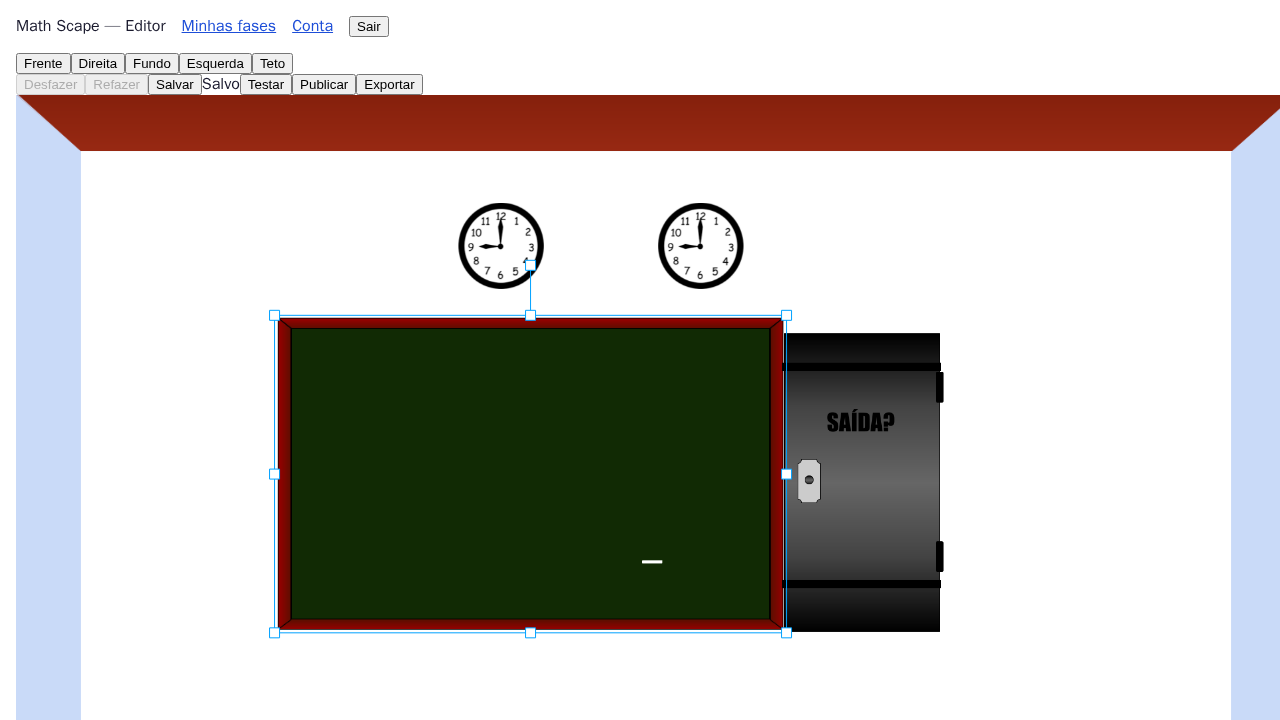
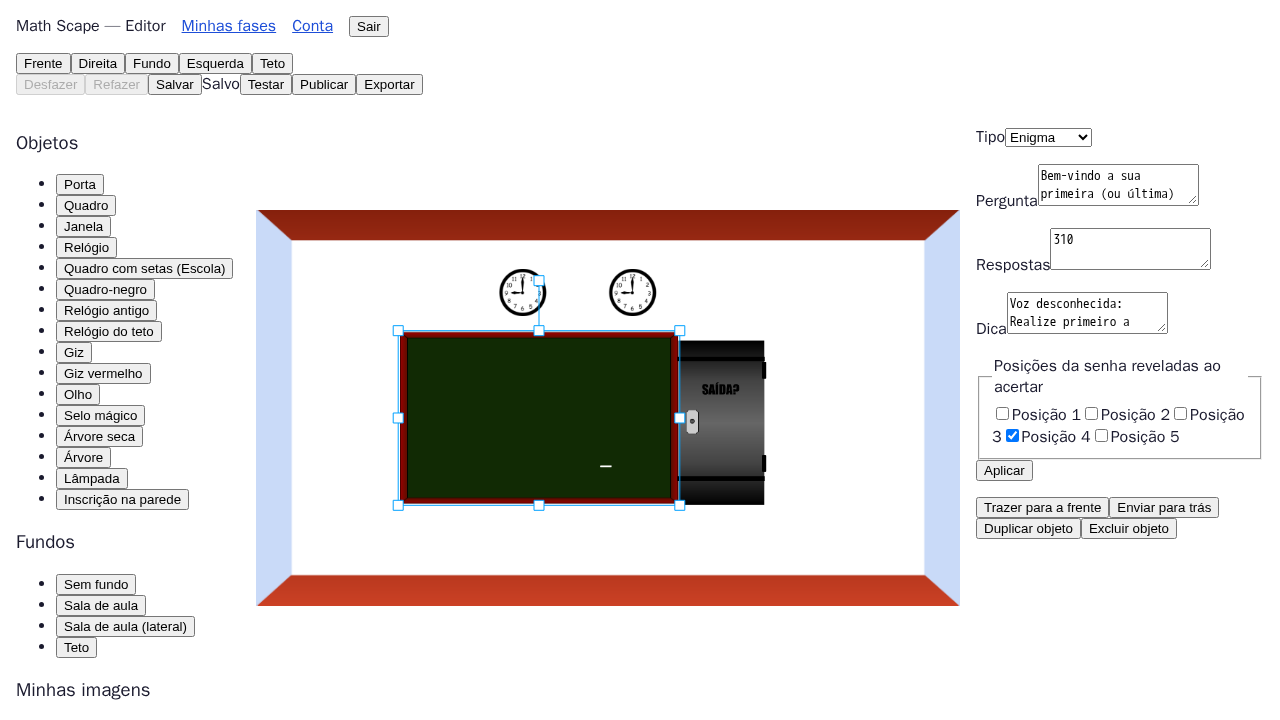
Fase 6 (Teste do Sistema): reteste de DEF-01 a DEF-05 e relatório assinado
Reteste sobre 92fd9d9: 91 passam, 5 falham como esperado (DEF-07 e DIF-01),
0 inesperadas, em 3 execuções seguidas. Unidade e integração: 667 de 667.
Sem defeito de prioridade alta aberto; relatório pronto para o Yuri.

Reforça o RF-03 (cantos do objeto em cada janela) e exige página sem rolagem
nos casos de DEF-04 e DEF-05. Sarah Mota assinou a nova versão em 06/11/2026.

Relatório: docs/testes/relatorio-teste-sistema.md

diff --git a/tests/e2e/criador.spec.ts b/tests/e2e/criador.spec.ts
@@ -122,7 +122,15 @@ test('test_RF03_area_16_9_mantem_a_proporcao_ao_redimensionar_a_janela', async (
       const caixa = await page.locator('.konvajs-content').first().boundingBox();
       return !!caixa && caixa.width > 0 && caixa.x + caixa.width <= largura && caixa.y + caixa.height <= altura;
     }).toBe(true);
-    await clicarObjeto(page, fase.paredes.frente.objetos[0]!);
+    // O palco 16:9 fica centralizado dentro do Stage: acertar os dois cantos opostos do objeto mostra escala e proporção.
+    // O ResizeObserver atualiza o Stage depois do resize: repete o clique até o palco assentar (falha se nunca acertar).
+    await expect(async () => {
+      await clicarObjeto(page, fase.paredes.frente.objetos[0]!, 0.1, 0.1);
+      await expect(page.getByRole('combobox', { name: 'Tipo' })).toBeVisible({ timeout: 500 });
+    }).toPass();
+    await clicarObjeto(page, { x: 0.9, y: 0.9, largura: 0.01, altura: 0.01 });
+    await expect(page.getByRole('combobox', { name: 'Tipo' })).toHaveCount(0);
+    await clicarObjeto(page, fase.paredes.frente.objetos[0]!, 0.9, 0.9);
     await expect(page.getByRole('combobox', { name: 'Tipo' })).toBeVisible();
     await clicarObjeto(page, { x: 0.9, y: 0.9, largura: 0.01, altura: 0.01 });
     await expect(page.getByRole('combobox', { name: 'Tipo' })).toHaveCount(0);
@@ -134,6 +142,8 @@ test('test_RF03_palco_area_de_trabalho_cabe_na_janela_com_a_biblioteca_e_o_paine
   await abrirNaEdicao(page, faseComUmObjeto());
   await expect(page.getByRole('button', { name: 'Porta', exact: true })).toBeInViewport();
   await expect(page.getByRole('form', { name: 'Propriedades da fase' })).toBeInViewport();
+  const pagina = await page.evaluate(() => ({ rolaX: document.documentElement.scrollWidth - innerWidth, rolaY: document.documentElement.scrollHeight - innerHeight }));
+  expect(pagina).toEqual({ rolaX: 0, rolaY: 0 });
 });
 
 // @req RF-04 @tipo feliz

diff --git a/tests/e2e/nao-funcionais.spec.ts b/tests/e2e/nao-funcionais.spec.ts
@@ -130,6 +130,8 @@ for (const [largura, altura] of [[1280, 720], [1920, 1080], [2560, 1440]] as con
     await clicarObjeto(page, objetoDe(fase, 'frente', 'frente-quadro-negro'));
     await page.evaluate(() => window.scrollTo(0, 0));
     await expect(page.getByLabel('Sua resposta')).toBeInViewport({ timeout: 2000 });
+    const pagina = await page.evaluate(() => ({ rolaX: document.documentElement.scrollWidth - innerWidth, rolaY: document.documentElement.scrollHeight - innerHeight }));
+    expect(pagina).toEqual({ rolaX: 0, rolaY: 0 });
   });
 }
 

diff --git a/docs/testes/relatorio-teste-sistema.md b/docs/testes/relatorio-teste-sistema.md
@@ -1,14 +1,12 @@
 # Relatório de teste do sistema — Math Scape (fase 6)
 
-Responsável: Sarah Mota · Destino: Yuri, depois das correções · Commit testado: `e9fa8da` · Data: 06/11/2026 · Situação: **assinado por Sarah Mota em 06/11/2026; a entrega ao Yuri aguarda a correção dos defeitos altos**
+Responsável: Sarah Mota · Destino: Yuri · Commit testado: `92fd9d9`, com os casos E2E ajustados nesta rodada · Data: 06/11/2026 · Situação: **assinado por Sarah Mota em 06/11/2026 (versão do reteste)**
 
 ## Conclusão
 
-**O sistema ainda não está liberado para a aceitação.** O plano só permite entregar ao Yuri sem defeito de prioridade alta aberto, e há três:
+**Não há defeito de prioridade alta aberto, condição do plano para entregar ao Yuri.** DEF-01, DEF-02 e DEF-05 foram corrigidos e confirmados no navegador, assim como os médios DEF-03 e DEF-04.
 
-1. **DEF-01:** o criador não consegue excluir, duplicar nem reordenar objetos.
-2. **DEF-02:** a biblioteca não permite arrastar.
-3. **DEF-05:** quem joga clica e nada muda na janela, porque a resposta fica abaixo do palco.
+Seguem abertos, sem bloquear a aceitação: DEF-06 (médio), DEF-07 e DEF-08 (baixos). A decisão do DIF-01 continua com a Roberta.
 
 O núcleo está sólido: a fase original se comporta como o legado, a resposta não chega ao navegador, e o fluxo criar → publicar → jogar conclui nos três navegadores. Detalhes e passos: [relatório de defeitos](relatorio-defeitos.md).
 
@@ -18,12 +16,14 @@ Três execuções completas seguidas, com o mesmo resultado nas três:
 
 | Situação | Casos |
 |---|---|
-| Passaram | 84 |
-| Falham como esperado, marcados com defeito ou diferença (`test.fail`) | 12 |
+| Passaram | 91 |
+| Falham como esperado, marcados com defeito ou diferença (`test.fail`) | 5 |
 | Falhas inesperadas | 0 |
 | Pulado (só fotografa as evidências, quando pedido) | 1 |
 
-Os 12 casos marcados: DEF-05 (3 resoluções), DIF-01 (4 falas), DEF-01, DEF-02, DEF-03, DEF-04 e DEF-07.
+Os 5 casos marcados: DIF-01 (4 falas) e DEF-07.
+
+Nesta rodada, os casos também foram reforçados: o RF-03 agora acerta os cantos do objeto em cada tamanho de janela, e os casos do DEF-04 e do DEF-05 exigem que a página não role. O caso do RF-03, repetido 30 vezes, passou nas 30.
 
 Ambiente: builds de produção do Editor e do Player, Api e PostgreSQL no contêiner, sem rede, a partir de um banco vazio.
 
@@ -47,7 +47,7 @@ Diferença visual: DEF-06 ([legado](evidencias/legado-frente-1920x1080.png) × [
 
 - **Criador, só pela interface, em Chromium, Edge e Firefox:** cadastrar, criar fase, pôr objetos nas 5 paredes, configurar senha e enigma, testar, publicar, jogar e abrir a porta. Concluído nos três.
 - **Jogador, sem login:** escolher a fase, resolver os enigmas, ver `9 2 1 3 9`, abrir a porta e voltar à lista. Concluído.
-- O fluxo só conclui rolando a página, e sem excluir nenhum objeto: ver DEF-01 e DEF-05.
+- Excluir, duplicar e mudar a camada têm caso próprio (DEF-01), fora deste fluxo.
 
 ## Requisitos não funcionais
 
@@ -55,12 +55,12 @@ Diferença visual: DEF-06 ([legado](evidencias/legado-frente-1920x1080.png) × [
 |---|---|---|
 | RNF-01 navegadores | Fluxo completo em Chromium 158, Microsoft Edge 157 e Firefox 159 | **Parcial.** Só uma versão de cada; "as duas últimas" não foi medido |
 | RNF-01 aviso | Aparece em 1279x720 e 1280x719, não em 1280x720, no Player e no Editor | Aprovado |
-| RNF-02 16:9 | Sala em 16:9 e objetos no lugar em 1280x720, 1920x1080 e 2560x1440 | Aprovado (ver DEF-05) |
+| RNF-02 16:9 | Sala em 16:9 e objetos no lugar em 1280x720, 1920x1080 e 2560x1440 | Aprovado |
 | RNF-03 30 fps | Ver abaixo | Aprovado nesta máquina |
 | RNF-04 segredos | Todas as respostas HTTP de uma partida e do modo testar, inclusive o JavaScript, sem `respostas`, `senha`, `revela` nem `92139`. `/verificar` devolve só `correto` e `digitos` | Aprovado |
 | RNF-05 sessão | Cookie `sid` com `HttpOnly`, invisível a `document.cookie`. Hash no banco: coberto na integração | Aprovado |
 | RNF-07 acessibilidade | `lang` pt, contraste WCAG calculado nas telas de login, Escolher Fase e Edição; login, Escolher Fase e barra só pelo teclado, com foco visível | Aprovado |
-| RNF-08 30 minutos | — | Fase 7. DEF-01, DEF-02 e DEF-04 ameaçam este requisito |
+| RNF-08 30 minutos | — | Fase 7 |
 
 ### RNF-03: quadros por segundo
 
@@ -69,8 +69,8 @@ Arrastar um objeto numa parede com 50 objetos, em 240 movimentos do mouse. Quadr
 | Navegador | Quadros por segundo (média) | No percentil 95 dos intervalos |
 |---|---|---|
 | Chromium 158 | 60 | 59,5 a 59,9 |
-| Microsoft Edge 157 | 60 | 59,9 |
-| Firefox 159 | 59,8 a 60 | 58,3 a 58,4 |
+| Microsoft Edge 157 | 60 | 59,5 a 59,9 |
+| Firefox 159 | 60,1 a 60,2 | 58,4 |
 
 Máquina (PEND-006): Intel Core i7-1165G7 de 2,8 GHz, 8 núcleos, 15 GB de memória, sem GPU no contêiner (renderização por software), Linux 6.8, Docker 29.
 
@@ -80,7 +80,7 @@ Máquina (PEND-006): Intel Core i7-1165G7 de 2,8 GHz, 8 núcleos, 15 GB de memó
 
 | Medida | Resultado |
 |---|---|
-| Vitest | 607 de 607, em 34 arquivos |
+| Vitest | 667 de 667, em 34 arquivos |
 | Biome e TypeScript | sem erros |
 | Testes do harness | 60 de 60 |
 | Cobertura do schema (`src` e `contrato`) | 95,5% das linhas, 92,2% dos ramos |
@@ -93,7 +93,8 @@ Máquina (PEND-006): Intel Core i7-1165G7 de 2,8 GHz, 8 núcleos, 15 GB de memó
 - **Duas últimas versões:** cada versão do Playwright traz uma versão de cada navegador.
 - **Hardware real:** nenhum caso rodou com GPU nem janela visível.
 - **Usabilidade:** não houve pessoa usando o sistema. O tempo de 30 minutos é da fase 7.
-- **CI:** o fluxo foi escrito nesta fase; o resultado no GitHub só existe depois do envio.
+- **Outros navegadores:** só o fluxo completo e o RNF-03 rodam em Edge e Firefox. Arrastar da biblioteca e o layout sem rolagem foram medidos só no Chromium.
+- **Layout:** a ausência de rolagem foi medida com poucas imagens e objetos. Uma lista longa de imagens não foi testada.
 - **Geometria do clique:** o Playwright clica por coordenadas do documento. Não verifica pixel a pixel se o desenho está no lugar (ver DEF-06).
 - **Produção:** nada foi testado atrás de proxy ou HTTPS (fase 8).
 
@@ -101,20 +102,21 @@ Máquina (PEND-006): Intel Core i7-1165G7 de 2,8 GHz, 8 núcleos, 15 GB de memó
 
 | Métrica | Legado | Depois |
 |---|---|---|
-| Como se cria uma fase nova | Escrevendo HTML, CSS e JS | Editor visual, sem código (fluxo E2E concluído; com DEF-01 e DEF-02 abertos) |
+| Como se cria uma fase nova | Escrevendo HTML, CSS e JS | Editor visual, sem código (fluxo E2E concluído) |
 | Tempo para criar uma fase simples | — | Fase 7 |
 | Respostas e senha visíveis no navegador | Sim | **Não** (tráfego e JavaScript inspecionados) |
 | Onde fica a lógica de cada objeto | `onclick` com função própria por objeto | Documento JSON interpretado pelo motor |
-| Testes automatizados | 0 | 607 de unidade e integração + 96 de sistema |
+| Testes automatizados | 0 | 667 de unidade e integração + 96 de sistema |
 | Cobertura de testes do núcleo | 0% | Schema 95,5% · motor 100% (linhas) |
 | Fases disponíveis | 1 (fixa no código) | Ilimitadas: a original migrada + as criadas no editor |
 | Nota SUS de usabilidade | não medida | Fase 7 |
 
 ## Próximos passos
 
-1. **Eric:** corrigir DEF-01, DEF-02 e DEF-05; depois, os de prioridade média. Ao corrigir, tirar o `test.fail` do caso.
-2. **Roberta:** decidir o DIF-01.
-3. **Sarah:** rodar a suíte de novo e, sem defeito alto aberto, entregar este relatório ao Yuri.
+1. **Sarah:** fechar as issues #1 a #5 e entregar este relatório ao Yuri.
+2. **Yuri:** conduzir a aceitação (fase 7).
+3. **Eric:** tratar DEF-06, DEF-07 e DEF-08. Ao corrigir, tirar o `test.fail` do caso, quando houver.
+4. **Roberta:** decidir o DIF-01.
 
 ---
 Assinatura da responsável (fase 6): Sarah Mota · Data: 06/11/2026

diff --git a/docs/testes/plano-de-testes.md b/docs/testes/plano-de-testes.md
@@ -1,6 +1,6 @@
 # Plano de testes — Math Scape (fases 5 e 6)
 
-Responsável: Sarah Mota · Baseline: `2026-11-03.1` · Commit testado: `e9fa8da` (fim da fase 4) · Situação: **assinado por Sarah Mota em 06/11/2026**
+Responsável: Sarah Mota · Baseline: `2026-11-03.1` · Commit testado: `92fd9d9`, com os casos E2E ajustados nesta rodada · Situação: **assinado por Sarah Mota em 06/11/2026 (versão do reteste)**
 
 A coluna "Resultado" da matriz traz o que foi medido em 06/11/2026. Detalhes dos achados: [relatório de defeitos](relatorio-defeitos.md). Conclusão do sistema: [relatório de teste do sistema](relatorio-teste-sistema.md).
 
@@ -49,16 +49,16 @@ O CI (`.github/workflows/ci.yml`) roda os mesmos comandos a cada push na `main` 
 
 ## Matriz de rastreabilidade
 
-Os números de unidade e integração vêm de `harness/matriz/requisito-teste.json`. A coluna de sistema vem das marcas `@req` em `tests/e2e/`.
+Os números de unidade e integração vêm das marcas `@req` em `tests/`, sem contar `tests/e2e/` (a matriz `harness/matriz/requisito-teste.json` agora soma as duas). A coluna de sistema vem das marcas `@req` em `tests/e2e/`.
 
 | Requisito | Prioridade | O que testar | Unidade e integração (feliz / borda / negativo) | Sistema (`tests/e2e/`) | Resultado | Achados |
 |---|---|---|---|---|---|---|
 | RF-01 | Alta | Cadastro e login; login exigido só para criar fases, jogar fases publicadas não exige login. | 10 / 13 / 11 | criador | Aprovado |  |
 | RF-02 | Alta | Criar, renomear, duplicar e excluir as próprias fases (sala de 5 paredes); excluir fase publicada exige confirmação; exclusão não se desfaz com Ctrl+Z. | 10 / 11 / 16 | criador | Aprovado |  |
-| RF-03 | Alta | Editar as 5 paredes em área de proporção fixa, trocando por abas. | 5 / 3 / 4 | criador | Aprovado, com ressalva | DEF-04 |
-| RF-04 | Alta | Biblioteca de objetos: porta, quadro, janela, relógio e os objetos da fase original. | 7 / 6 / 6 | criador | **Reprovado** | DEF-02 |
-| RF-05 | Alta | Mover, redimensionar, rotacionar, ordenar camadas, duplicar e excluir objetos. | 9 / 11 / 10 | criador | **Reprovado** | DEF-01 |
-| RF-06 | Média | Enviar imagens PNG, JPG ou WebP de até 5 MB para fundo ou objeto. | 8 / 10 / 10 | criador | **Reprovado em parte** | DEF-03 |
+| RF-03 | Alta | Editar as 5 paredes em área de proporção fixa, trocando por abas. | 6 / 5 / 5 | criador | Aprovado | DEF-04 corrigido |
+| RF-04 | Alta | Biblioteca de objetos: porta, quadro, janela, relógio e os objetos da fase original. | 15 / 14 / 11 | criador | Aprovado | DEF-02 corrigido |
+| RF-05 | Alta | Mover, redimensionar, rotacionar, ordenar camadas, duplicar e excluir objetos. | 17 / 15 / 15 | criador | Aprovado | DEF-01 corrigido |
+| RF-06 | Média | Enviar imagens PNG, JPG ou WebP de até 5 MB para fundo ou objeto. | 9 / 11 / 11 | criador | Aprovado | DEF-03 corrigido |
 | RF-07 | Alta | 4 tipos de objeto: decoração (só visual), fala, enigma e porta. | 6 / 6 / 7 | — | Aprovado (unidade) |  |
 | RF-08 | Alta | Configurar fala (texto), enigma (pergunta, uma ou mais respostas numéricas, dica, zero ou mais dígitos) e porta (senha de 4 a 8 dígitos, padrão 5). | 13 / 18 / 12 | criador | Aprovado |  |
 | RF-09 | Média | Desfazer e refazer com Ctrl+Z e Ctrl+Y. | 6 / 10 / 8 | criador | Aprovado |  |
@@ -67,13 +67,13 @@ Os números de unidade e integração vêm de `harness/matriz/requisito-teste.js
 | RF-12 | Média | Bloquear a publicação se algum dígito da senha não estiver ligado a um enigma, indicando quais. | 4 / 9 / 5 | criador | Aprovado |  |
 | RF-13 | Alta | Publicar fase; tela Escolher Fase lista as publicadas. | 8 / 10 / 10 | criador, jogador | Aprovado, com observação | OBS-01 |
 | RF-14 | Baixa | Exportar as próprias fases e importar fase em JSON. | 4 / 7 / 5 | criador | Aprovado |  |
-| RF-15 | Alta | Enigma resolvido revela dígitos; aceita qualquer resposta cadastrada, comparando só o número; porta abre só com a senha completa. | 17 / 30 / 24 | jogador | Aprovado, com ressalva | DEF-05 |
-| RF-16 | Média | Decoração não reage ao clique; fala ao clicar é sempre objeto do tipo fala. | 4 / 5 / 3 | equivalencia-legado | Aprovado, com ressalva | DEF-05 |
+| RF-15 | Alta | Enigma resolvido revela dígitos; aceita qualquer resposta cadastrada, comparando só o número; porta abre só com a senha completa. | 17 / 30 / 24 | jogador | Aprovado | DEF-05 corrigido |
+| RF-16 | Média | Decoração não reage ao clique; fala ao clicar é sempre objeto do tipo fala. | 5 / 6 / 4 | equivalencia-legado | Aprovado | DEF-05 corrigido |
 | RF-17 | Média | Enigma com dica exibe ícone de dica que mostra a dica cadastrada. | 2 / 4 / 3 | criador, equivalencia-legado | Aprovado |  |
 | RF-18 | Alta | Fase original recriada com os mesmos enigmas, respostas, dígitos e senha 92139. | 10 / 4 / 5 | equivalencia-legado | Aprovado, com ressalva | DEF-06, DIF-01 |
 | RF-19 | Alta | Usuário pode excluir a própria conta e seus dados (LGPD). | 3 / 5 / 5 | criador | Aprovado |  |
 | RNF-01 | — | Duas últimas versões estáveis de Chrome, Edge e Firefox, no computador, tela mínima 1280x720; abaixo disso, aviso. | 5 / 8 / 3 | fluxo-completo, nao-funcionais | **Parcial**: uma versão por navegador | DEF-08 |
-| RNF-02 | — | Sala em 16:9 com posições relativas, escalando a partir de 1280x720. | 3 / 4 / 2 | nao-funcionais | Aprovado, com ressalva | DEF-05 |
+| RNF-02 | — | Sala em 16:9 com posições relativas, escalando a partir de 1280x720. | 6 / 9 / 4 | nao-funcionais | Aprovado | DEF-05 corrigido |
 | RNF-03 | — | Arrastar objetos a pelo menos 30 quadros por segundo com até 50 objetos por parede. | — | desempenho | Aprovado nesta máquina |  |
 | RNF-04 | — | Respostas e senha nunca vão ao navegador de quem joga; conferência no servidor, inclusive no modo testar. O editor do autor recebe o próprio documento. | 5 / 6 / 5 | nao-funcionais | Aprovado |  |
 | RNF-05 | — | Senhas com hash (argon2 ou bcrypt); login por sessão em cookie httpOnly. | 2 / 3 / 2 | nao-funcionais | Aprovado |  |

diff --git a/docs/testes/relatorio-defeitos.md b/docs/testes/relatorio-defeitos.md
@@ -1,8 +1,19 @@
 # Relatório de defeitos — Math Scape (fases 5 e 6)
 
-Responsável: Sarah Mota · Destino: Eric (correções) · Commit testado: `e9fa8da` · Data: 06/11/2026 · Situação: **assinado por Sarah Mota em 06/11/2026**
+Responsável: Sarah Mota · Destino: Eric (correções) · Achados no commit `e9fa8da` · Reteste no commit `92fd9d9`, com os casos E2E ajustados nesta rodada · Data: 06/11/2026 · Situação: **assinado por Sarah Mota em 06/11/2026 (versão do reteste)**
 
 Os 607 testes de unidade e integração estão verdes. Todos os defeitos abaixo apareceram no sistema real ou na leitura do código: os testes verdes não os detectam, porque cobrem as peças separadas, e a composição das telas (`main.tsx`) não tem teste unitário.
+
+## Situação depois do reteste
+
+| Defeito | Situação |
+|---|---|
+| DEF-01, DEF-02 e DEF-05 (altos) | **Corrigidos.** Casos passando sem `test.fail` |
+| DEF-03 e DEF-04 (médios) | **Corrigidos.** Casos passando sem `test.fail` |
+| DEF-06 (médio) | Aberto. O quadro segue vazio; a geometria melhorou |
+| DEF-07 e DEF-08 (baixos) | Abertos |
+
+Unidade e integração: 667 de 667. Sistema: 3 execuções seguidas sem falha inesperada. O texto de cada defeito abaixo descreve o achado original no `e9fa8da`, exceto onde há uma nota de reteste.
 
 ## Resumo
 
@@ -55,7 +66,8 @@ Para reproduzir um caso, use o nome dele (ou trecho): `docker run --rm --network
 ### DEF-06 · Quadro vazio e geometria diferente do legado (RF-18, Média)
 - **Comparação:** [legado](evidencias/legado-frente-1920x1080.png) × [novo](evidencias/novo-frente-1920x1080.png), a 1920x1080.
 - **Esperado:** o agente 4 deixou a equivalência visual para esta fase (log da fase 4). O RF-18 exige perguntas iguais, sem exigir o desenho.
-- **Obtido:** o texto das perguntas é igual ao do legado, mas só aparece depois do clique. No legado, o enunciado e o campo ficam escritos no quadro; no novo, o quadro é um retângulo vazio. O quadro-negro ficou maior (cerca de 758×468 px contra 638×394) e encosta na porta. A sala ocupa a janela inteira, sem o fundo escuro do legado, e os botões das paredes ficam acima dela, não à direita.
+- **Obtido:** o texto das perguntas é igual ao do legado, mas só aparece depois do clique. No legado, o enunciado e o campo ficam escritos no quadro; no novo, o quadro é um retângulo vazio. O quadro-negro encosta na porta, e a página não tem o fundo escuro do legado.
+- **Nota de reteste:** com o layout do DEF-05, o quadro passou a cerca de 626×386 px (no legado, 638×394), e os botões das paredes ficam à direita, como no legado. O quadro vazio continua.
 
 ### DEF-07 · Rótulos diferentes no modo testar (RF-11, Baixa)
 - **Obtido:** "Resposta" e "Senha:" no modo testar; "Sua resposta" e "Senha da porta:" no jogo. O critério pede "as regras do jogador"; as regras estão iguais, só os textos diferem. O log da fase 4 já citava os textos fixos do `ModoTestar`.
@@ -78,7 +90,7 @@ Mudar isso é mudança de requisito, e passa pela Roberta. Opções: (a) aceitar
 
 ## Issues no GitHub
 
-O plano pede os defeitos como issues. Elas foram abertas em 06/11/2026, com o número igual ao do defeito: [DEF-01 (#1)](https://github.com/Eric-2139/Trabalho-Lucas-Engenharia-Harness/issues/1), [DEF-02 (#2)](https://github.com/Eric-2139/Trabalho-Lucas-Engenharia-Harness/issues/2), [DEF-03 (#3)](https://github.com/Eric-2139/Trabalho-Lucas-Engenharia-Harness/issues/3), [DEF-04 (#4)](https://github.com/Eric-2139/Trabalho-Lucas-Engenharia-Harness/issues/4), [DEF-05 (#5)](https://github.com/Eric-2139/Trabalho-Lucas-Engenharia-Harness/issues/5), [DEF-06 (#6)](https://github.com/Eric-2139/Trabalho-Lucas-Engenharia-Harness/issues/6), [DEF-07 (#7)](https://github.com/Eric-2139/Trabalho-Lucas-Engenharia-Harness/issues/7) e [DEF-08 (#8)](https://github.com/Eric-2139/Trabalho-Lucas-Engenharia-Harness/issues/8).
+O plano pede os defeitos como issues. Elas foram abertas em 06/11/2026, com o número igual ao do defeito. As #1 a #5 devem ser fechadas com o reteste assinado: [DEF-01 (#1)](https://github.com/Eric-2139/Trabalho-Lucas-Engenharia-Harness/issues/1), [DEF-02 (#2)](https://github.com/Eric-2139/Trabalho-Lucas-Engenharia-Harness/issues/2), [DEF-03 (#3)](https://github.com/Eric-2139/Trabalho-Lucas-Engenharia-Harness/issues/3), [DEF-04 (#4)](https://github.com/Eric-2139/Trabalho-Lucas-Engenharia-Harness/issues/4), [DEF-05 (#5)](https://github.com/Eric-2139/Trabalho-Lucas-Engenharia-Harness/issues/5), [DEF-06 (#6)](https://github.com/Eric-2139/Trabalho-Lucas-Engenharia-Harness/issues/6), [DEF-07 (#7)](https://github.com/Eric-2139/Trabalho-Lucas-Engenharia-Harness/issues/7) e [DEF-08 (#8)](https://github.com/Eric-2139/Trabalho-Lucas-Engenharia-Harness/issues/8).
 
 ---
 Assinatura da responsável (fase 5): Sarah Mota · Data: 06/11/2026

diff --git a/docs/ia-log/fase-6.md b/docs/ia-log/fase-6.md
@@ -18,6 +18,7 @@ Ferramenta: Claude Code (extensão do VS Code), modelo Claude Opus 5.5. Tokens *
 | 06/11 | Roteiro de equivalência | Usou o legado como oráculo e serviu as rotas curtas dele (`/F_Roo`) sem alterar a pasta | Contou 1 alerta na dica do teto; no legado, o clique sobe ao relógio e dispara mais |
 | 06/11 | Fluxos e não funcionais | Encontrou DEF-03 a DEF-07 no navegador real | Testes com corrida (clicar antes de a tela assentar) pareceram defeitos no RF-03 e no RF-11; investigados, eram do teste |
 | 06/11 | Separar defeito de erro do teste | Reproduziu cada falha antes de classificar; repetiu a suíte 3 vezes | Uma execução extra da IA apagou resultados. Depois, a tela da falha do RF-13 também foi sobrescrita, e a OBS-01 ficou sem causa |
+| 06/11 | Reteste depois das correções | Mediu de novo em vez de aceitar o resumo; notou que o caso do RF-03 não media a proporção e que nenhum caso media a rolagem da página | Mediu a área errada do palco e depois criou uma corrida ao redimensionar. As duas falhas foram investigadas, e eram do teste |
 
 ## Onde a IA mais ajudou
 Montar a suíte inteira e reproduzir falhas por coordenadas num palco de canvas, onde não há elemento para selecionar.
@@ -31,6 +32,7 @@ Montar a suíte inteira e reproduzir falhas por coordenadas num palco de canvas,
 | Data | Ferramenta / modelo | Objetivo | Resultado | Tokens entrada | Tokens saída | Origem |
 |---|---|---|---|---|---|---|
 | 06/11 | Claude Code / Opus 5.5 | Suíte Playwright, investigação das falhas e medições (sessão principal, de 12:29 UTC até antes da escrita dos relatórios) | 84 passam, 12 falham como esperado, 0 falhas inesperadas | 4.816.556 | 70.657 | medido |
-| **Total** | | | | **4.816.556** | **70.657** | medido |
+| 06/11 | Claude Code / Opus 5.5 | Reteste de DEF-01 a DEF-05, reforço dos casos, evidências e atualização dos relatórios | 91 passam, 5 falham como esperado, 0 inesperadas; 667 de 667 | 3.245.397 | 32.424 | medido |
+| **Total** | | | | **8.061.953** | **103.081** | medido |
 
-A linha foi medida antes de escrever estes documentos. A escrita, o commit e o envio não entram na conta.
+A primeira linha foi medida antes de escrever estes documentos. A segunda foi medida antes do commit do reteste. O commit e o envio não entram na conta.
